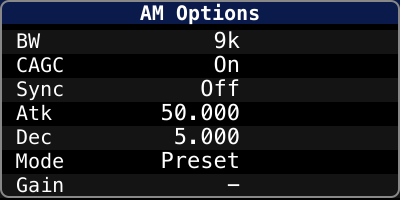
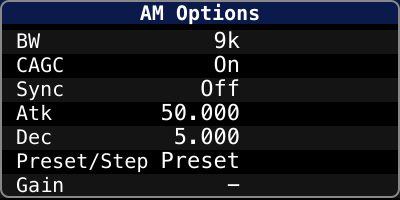
feat: FM / AM / SSB Options dials unified to Preset/Step row + 1 s long-press toggle
User: 'Deck RX Options (FM/NFM) も さっきと同じように Preset/Step 仕様に修正
& 再 dump & readme.md の dump 貼り替え'.

The three single-column Options dials (spyDialOptions = FM/NFM,
spyDialAmOptions, spyDialSsbOptions) all had the old two-row pattern:
'Mode: Preset' always shown + 'Step: Nk' shown only in VFO mode, with
rotate-on-Mode-row toggling preset↔vfo. That was inconsistent with the
unified Preset/Step + long-press behaviour the Band Select / Combo
Options dials already use.

Collapsed each to:
  - One row labelled 'Preset/Step' (full-width panels fit the label)
  - Short PUSH    → enter / exit edit mode (rotate cycles step)
  - ROTATE       → wraps the mode's step list (no escape into mode toggle)
  - LONG PUSH 1s → toggle preset ↔ vfo

Removed the Mode/Step separate rows, the showStep / stepRowIdx
indexing, and the mode-toggle-from-rotate branch. Long-press timer
and longPressFired flag added to each dial, matching Band Select's
existing pattern.

Regenerated docs/lcd-options-fm.png / lcd-options-am.png /
lcd-options-ssb.png via render-all-dials harness so the gallery
reflects the new row.

Changed region(s): [[0.03, 0.75, 0.39, 0.87]]

diff --git a/src/actions/spyDialOptions.ts b/src/actions/spyDialOptions.ts
@@ -52,8 +52,10 @@ const OPTIONS: OptionDef[] = [
 ];
 
 // Synthetic rows appended after the FM-specific options:
-//   [OPTIONS.length]:        Mode (Preset / VFO) — always shown
-//   [OPTIONS.length+1]:      Step (cycle thru TUNE_STEP_VALUES) — VFO only
+//   [OPTIONS.length]:        Preset/Step — single row, short PUSH toggles
+//                            edit (rotate cycles step), LONG PUSH 1 s
+//                            toggles preset ↔ vfo. Matches Band Select
+//                            and Combo Options behaviour.
 //   [last]:                  Gain — only while in FM/NFM mode
 const MODE_ROW_INDEX = OPTIONS.length;
 
@@ -72,6 +74,8 @@ export class SpyDialOptions extends SingletonAction<Settings> {
   private tuneModeListener: ((m: TuneMode) => void) | null = null;
   private tuneStepListener: ((s: number) => void) | null = null;
   private forceRenderListener: (() => void) | null = null;
+  private longPressTimer: ReturnType<typeof setTimeout> | null = null;
+  private longPressFired = false;
   private enabled = true;
   private connected = false;
   private isFmMode = true;
@@ -130,11 +134,8 @@ export class SpyDialOptions extends SingletonAction<Settings> {
     // FM state the user can't even hear, so we ignore rotation outright.
     if (!this.isFmMode) return;
     const ticks = ev.payload.ticks;
-    const tuneMode = spyService.getTuneMode();
-    const showStep = tuneMode === 'vfo';
-    const stepRowIdx = MODE_ROW_INDEX + 1;
-    const gainRowIdx = MODE_ROW_INDEX + 1 + (showStep ? 1 : 0);
-    const totalRows = MODE_ROW_INDEX + 1 + (showStep ? 1 : 0) + (this.isFmMode ? 1 : 0);
+    const gainRowIdx = MODE_ROW_INDEX + 1;
+    const totalRows = MODE_ROW_INDEX + 1 + (this.isFmMode ? 1 : 0);
     if (this.editMode) {
       const idx = this.selectedIdx;
       if (idx < OPTIONS.length) {
@@ -144,8 +145,8 @@ export class SpyDialOptions extends SingletonAction<Settings> {
           await spyService.setFMOption(k as keyof FMOptions, v as never);
         }
       } else if (idx === MODE_ROW_INDEX) {
-        spyService.setTuneMode(tuneMode === 'preset' ? 'vfo' : 'preset');
-      } else if (showStep && idx === stepRowIdx) {
+        // Preset/Step row: rotate always cycles step list (wrap-around).
+        // Mode toggle is on a 1-second long-press, see onDialDown.
         const cur = spyService.getTuneStepHz();
         const list = tuneStepValuesForMode(spyService.getDemodMode());
         const ci = list.indexOf(cur);
@@ -162,11 +163,24 @@ export class SpyDialOptions extends SingletonAction<Settings> {
     }
   }
 
-  override onDialDown(_ev: DialDownEvent<Settings>): void {}
+  override onDialDown(_ev: DialDownEvent<Settings>): void {
+    // 1 s long-press on the Preset/Step row toggles preset ↔ vfo.
+    if (!this.isFmMode) return;
+    if (this.selectedIdx !== MODE_ROW_INDEX) return;
+    this.longPressFired = false;
+    if (this.longPressTimer) clearTimeout(this.longPressTimer);
+    this.longPressTimer = setTimeout(() => {
+      this.longPressTimer = null;
+      this.longPressFired = true;
+      spyService.setTuneMode(spyService.getTuneMode() === 'preset' ? 'vfo' : 'preset');
+    }, 1000);
+  }
 
   override onDialUp(_ev: DialUpEvent<Settings>): void {
     // PUSH ignored when the live demod is AM — same rationale as
     // onDialRotate: there's nothing on this dial that affects AM audio.
+    if (this.longPressTimer) { clearTimeout(this.longPressTimer); this.longPressTimer = null; }
+    if (this.longPressFired) { this.longPressFired = false; return; }
     if (!this.isFmMode) return;
     if (this.editMode) {
       // confirm value: leave edit mode and hide focus highlight
@@ -186,12 +200,13 @@ export class SpyDialOptions extends SingletonAction<Settings> {
     const maxGain = spyService.getMaxGain();
     const tuneMode = spyService.getTuneMode();
     const tuneStepHz = spyService.getTuneStepHz();
-    const showStep = tuneMode === 'vfo';
     const rows: OptionsPanelRow[] = [
       ...OPTIONS.map((d) => ({ label: d.label, value: d.format(o) })),
     ];
-    rows.push({ label: 'Mode', value: tuneMode === 'preset' ? 'Preset' : 'VFO' });
-    if (showStep) rows.push({ label: 'Step', value: formatTuneStep(tuneStepHz) });
+    rows.push({
+      label: 'Preset/Step',
+      value: tuneMode === 'preset' ? 'Preset' : formatTuneStep(tuneStepHz),
+    });
     if (this.isFmMode) rows.push({ label: 'Gain', value: maxGain > 0 ? `${gain}/${maxGain}` : '-' });
     const sel = this.focused ? this.selectedIdx : -1;
     // Dim when the master switch / TCP link is down OR when the live demod

diff --git a/src/actions/spyDialAmOptions.ts b/src/actions/spyDialAmOptions.ts
@@ -87,8 +87,9 @@ const OPTIONS: OptionDef[] = [
 // FM Options dial when in AM (or vice versa) wouldn't take effect anyway,
 // and showing both at once led to "two Gain rows visible" confusion.
 // Synthetic rows after OPTIONS:
-//   [OPTIONS.length]:        Mode (Preset / VFO) — always shown
-//   [OPTIONS.length+1]:      Step — VFO only
+//   [OPTIONS.length]:        Preset/Step — single row, short PUSH toggles
+//                            edit (rotate cycles step), LONG PUSH 1 s
+//                            toggles preset ↔ vfo.
 //   [last]:                  Gain — only while in AM mode
 const MODE_ROW_INDEX = OPTIONS.length;
 
@@ -107,6 +108,8 @@ export class SpyDialAmOptions extends SingletonAction<Settings> {
   private tuneModeListener: ((m: TuneMode) => void) | null = null;
   private tuneStepListener: ((s: number) => void) | null = null;
   private forceRenderListener: (() => void) | null = null;
+  private longPressTimer: ReturnType<typeof setTimeout> | null = null;
+  private longPressFired = false;
   private enabled = true;
   private connected = false;
   private isAmMode = true;
@@ -172,11 +175,8 @@ export class SpyDialAmOptions extends SingletonAction<Settings> {
     // Mirrors the symmetric behaviour in spyDialOptions.ts (FM Options).
     if (!this.isAmMode) return;
     const ticks = ev.payload.ticks;
-    const tuneMode = spyService.getTuneMode();
-    const showStep = tuneMode === 'vfo';
-    const stepRowIdx = MODE_ROW_INDEX + 1;
-    const gainRowIdx = MODE_ROW_INDEX + 1 + (showStep ? 1 : 0);
-    const totalRows = MODE_ROW_INDEX + 1 + (showStep ? 1 : 0) + (this.isAmMode ? 1 : 0);
+    const gainRowIdx = MODE_ROW_INDEX + 1;
+    const totalRows = MODE_ROW_INDEX + 1 + (this.isAmMode ? 1 : 0);
     if (this.editMode) {
       const idx = this.selectedIdx;
       if (idx < OPTIONS.length) {
@@ -186,8 +186,8 @@ export class SpyDialAmOptions extends SingletonAction<Settings> {
           await spyService.setAMOption(k as keyof AMOptions, v as never);
         }
       } else if (idx === MODE_ROW_INDEX) {
-        spyService.setTuneMode(tuneMode === 'preset' ? 'vfo' : 'preset');
-      } else if (showStep && idx === stepRowIdx) {
+        // Preset/Step row — rotate cycles step list (wrap-around). Mode
+        // toggle is on a 1 s long-press, see onDialDown.
         const cur = spyService.getTuneStepHz();
         const list = tuneStepValuesForMode(spyService.getDemodMode());
         const ci = list.indexOf(cur);
@@ -204,10 +204,22 @@ export class SpyDialAmOptions extends SingletonAction<Settings> {
     }
   }
 
-  override onDialDown(_ev: DialDownEvent<Settings>): void {}
+  override onDialDown(_ev: DialDownEvent<Settings>): void {
+    if (!this.isAmMode) return;
+    if (this.selectedIdx !== MODE_ROW_INDEX) return;
+    this.longPressFired = false;
+    if (this.longPressTimer) clearTimeout(this.longPressTimer);
+    this.longPressTimer = setTimeout(() => {
+      this.longPressTimer = null;
+      this.longPressFired = true;
+      spyService.setTuneMode(spyService.getTuneMode() === 'preset' ? 'vfo' : 'preset');
+    }, 1000);
+  }
   override onDialUp(_ev: DialUpEvent<Settings>): void {
     // PUSH ignored when the live demod isn't AM — same rationale as
     // onDialRotate: nothing on this dial affects audio in the current mode.
+    if (this.longPressTimer) { clearTimeout(this.longPressTimer); this.longPressTimer = null; }
+    if (this.longPressFired) { this.longPressFired = false; return; }
     if (!this.isAmMode) return;
     if (this.editMode) {
       this.editMode = false;
@@ -226,12 +238,13 @@ export class SpyDialAmOptions extends SingletonAction<Settings> {
     const maxGain = spyService.getMaxGain();
     const tuneMode = spyService.getTuneMode();
     const tuneStepHz = spyService.getTuneStepHz();
-    const showStep = tuneMode === 'vfo';
     const rows: OptionsPanelRow[] = [
       ...OPTIONS.map((d) => ({ label: d.label, value: d.format(o) })),
     ];
-    rows.push({ label: 'Mode', value: tuneMode === 'preset' ? 'Preset' : 'VFO' });
-    if (showStep) rows.push({ label: 'Step', value: formatTuneStep(tuneStepHz) });
+    rows.push({
+      label: 'Preset/Step',
+      value: tuneMode === 'preset' ? 'Preset' : formatTuneStep(tuneStepHz),
+    });
     if (this.isAmMode) rows.push({ label: 'Gain', value: maxGain > 0 ? `${gain}/${maxGain}` : '-' });
     const sel = this.focused ? this.selectedIdx : -1;
     // Dim when master switch / TCP link is down OR when the live demod

diff --git a/src/actions/spyDialSsbOptions.ts b/src/actions/spyDialSsbOptions.ts
@@ -1,6 +1,6 @@
 import { action, DialDownEvent, DialRotateEvent, DialUpEvent, SingletonAction, WillAppearEvent, WillDisappearEvent, DidReceiveSettingsEvent } from '@elgato/streamdeck';
 import streamDeck from '@elgato/streamdeck';
-import { spyService, SSBOptions, TuneMode, TUNE_STEP_VALUES } from '../spyService.js';
+import { spyService, SSBOptions, TuneMode, tuneStepValuesForMode } from '../spyService.js';
 import { svgB64, dumpAndB64 } from '../dialDisplay.js';
 import { knobSvg, optionsPanelSvg, OptionsPanelRow, dimSvg } from '../icons.js';
 
@@ -79,6 +79,8 @@ export class SpyDialSsbOptions extends SingletonAction<Settings> {
   private tuneModeListener: ((m: TuneMode) => void) | null = null;
   private tuneStepListener: ((s: number) => void) | null = null;
   private forceRenderListener: (() => void) | null = null;
+  private longPressTimer: ReturnType<typeof setTimeout> | null = null;
+  private longPressFired = false;
   private enabled = true;
   private connected = false;
   // SSB / CW = mode 4 / 5 / 6. The dial is dim and ignores edits otherwise.
@@ -131,11 +133,8 @@ export class SpyDialSsbOptions extends SingletonAction<Settings> {
 
   override async onDialRotate(ev: DialRotateEvent<Settings>): Promise<void> {
     const ticks = ev.payload.ticks;
-    const tuneMode = spyService.getTuneMode();
-    const showStep = tuneMode === 'vfo';
-    const stepRowIdx = MODE_ROW_INDEX + 1;
-    const gainRowIdx = MODE_ROW_INDEX + 1 + (showStep ? 1 : 0);
-    const totalRows = MODE_ROW_INDEX + 1 + (showStep ? 1 : 0) + (this.isSsbMode ? 1 : 0);
+    const gainRowIdx = MODE_ROW_INDEX + 1;
+    const totalRows = MODE_ROW_INDEX + 1 + (this.isSsbMode ? 1 : 0);
     if (this.editMode) {
       const idx = this.selectedIdx;
       if (idx < OPTIONS.length) {
@@ -148,10 +147,10 @@ export class SpyDialSsbOptions extends SingletonAction<Settings> {
           await spyService.setSSBOption(k as keyof SSBOptions, v as never);
         }
       } else if (idx === MODE_ROW_INDEX) {
-        spyService.setTuneMode(tuneMode === 'preset' ? 'vfo' : 'preset');
-      } else if (showStep && idx === stepRowIdx) {
+        // Preset/Step row: rotate cycles step list (wrap). Mode toggle on
+        // 1 s long-press, see onDialDown.
         const cur = spyService.getTuneStepHz();
-        const list = TUNE_STEP_VALUES;
+        const list = tuneStepValuesForMode(spyService.getDemodMode());
         const ci = list.indexOf(cur);
         const dir = ticks > 0 ? 1 : -1;
         const ni = (((ci < 0 ? 0 : ci) + dir) + list.length) % list.length;
@@ -166,8 +165,19 @@ export class SpyDialSsbOptions extends SingletonAction<Settings> {
     }
   }
 
-  override onDialDown(_ev: DialDownEvent<Settings>): void {}
+  override onDialDown(_ev: DialDownEvent<Settings>): void {
+    if (this.selectedIdx !== MODE_ROW_INDEX) return;
+    this.longPressFired = false;
+    if (this.longPressTimer) clearTimeout(this.longPressTimer);
+    this.longPressTimer = setTimeout(() => {
+      this.longPressTimer = null;
+      this.longPressFired = true;
+      spyService.setTuneMode(spyService.getTuneMode() === 'preset' ? 'vfo' : 'preset');
+    }, 1000);
+  }
   override onDialUp(_ev: DialUpEvent<Settings>): void {
+    if (this.longPressTimer) { clearTimeout(this.longPressTimer); this.longPressTimer = null; }
+    if (this.longPressFired) { this.longPressFired = false; return; }
     if (this.editMode) {
       this.editMode = false;
       this.focused = false;
@@ -185,12 +195,13 @@ export class SpyDialSsbOptions extends SingletonAction<Settings> {
     const maxGain = spyService.getMaxGain();
     const tuneMode = spyService.getTuneMode();
     const tuneStepHz = spyService.getTuneStepHz();
-    const showStep = tuneMode === 'vfo';
     const rows: OptionsPanelRow[] = [
       ...OPTIONS.map((d) => ({ label: d.label, value: d.format(o) })),
     ];
-    rows.push({ label: 'Mode', value: tuneMode === 'preset' ? 'Preset' : 'VFO' });
-    if (showStep) rows.push({ label: 'Step', value: formatTuneStep(tuneStepHz) });
+    rows.push({
+      label: 'Preset/Step',
+      value: tuneMode === 'preset' ? 'Preset' : formatTuneStep(tuneStepHz),
+    });
     if (this.isSsbMode) rows.push({ label: 'Gain', value: maxGain > 0 ? `${gain}/${maxGain}` : '-' });
     const sel = this.focused ? this.selectedIdx : -1;
     // Dim when offline OR when the active mode is not SSB / CW (the dial is
